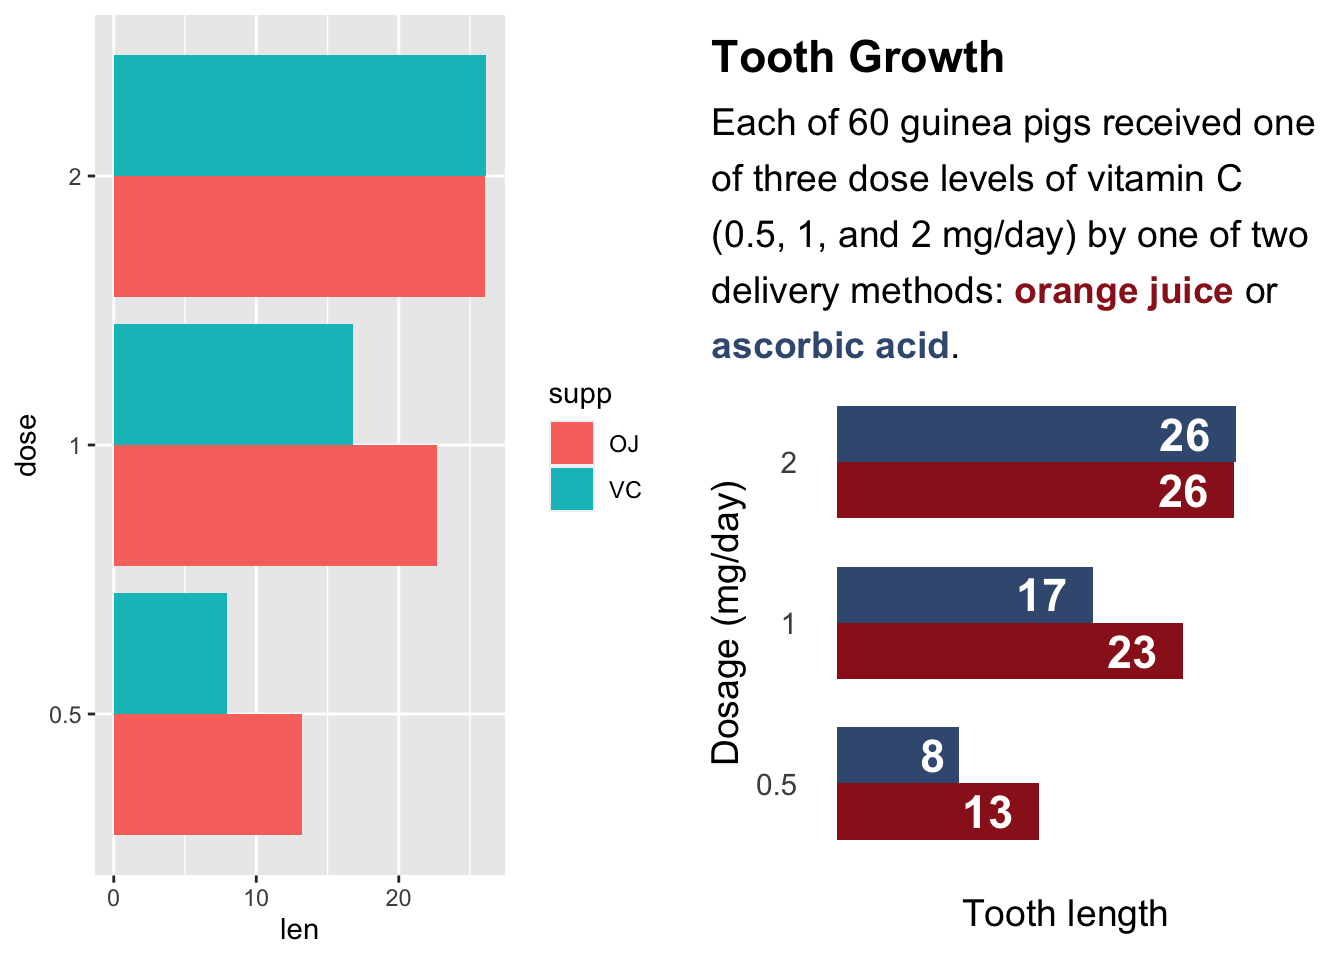
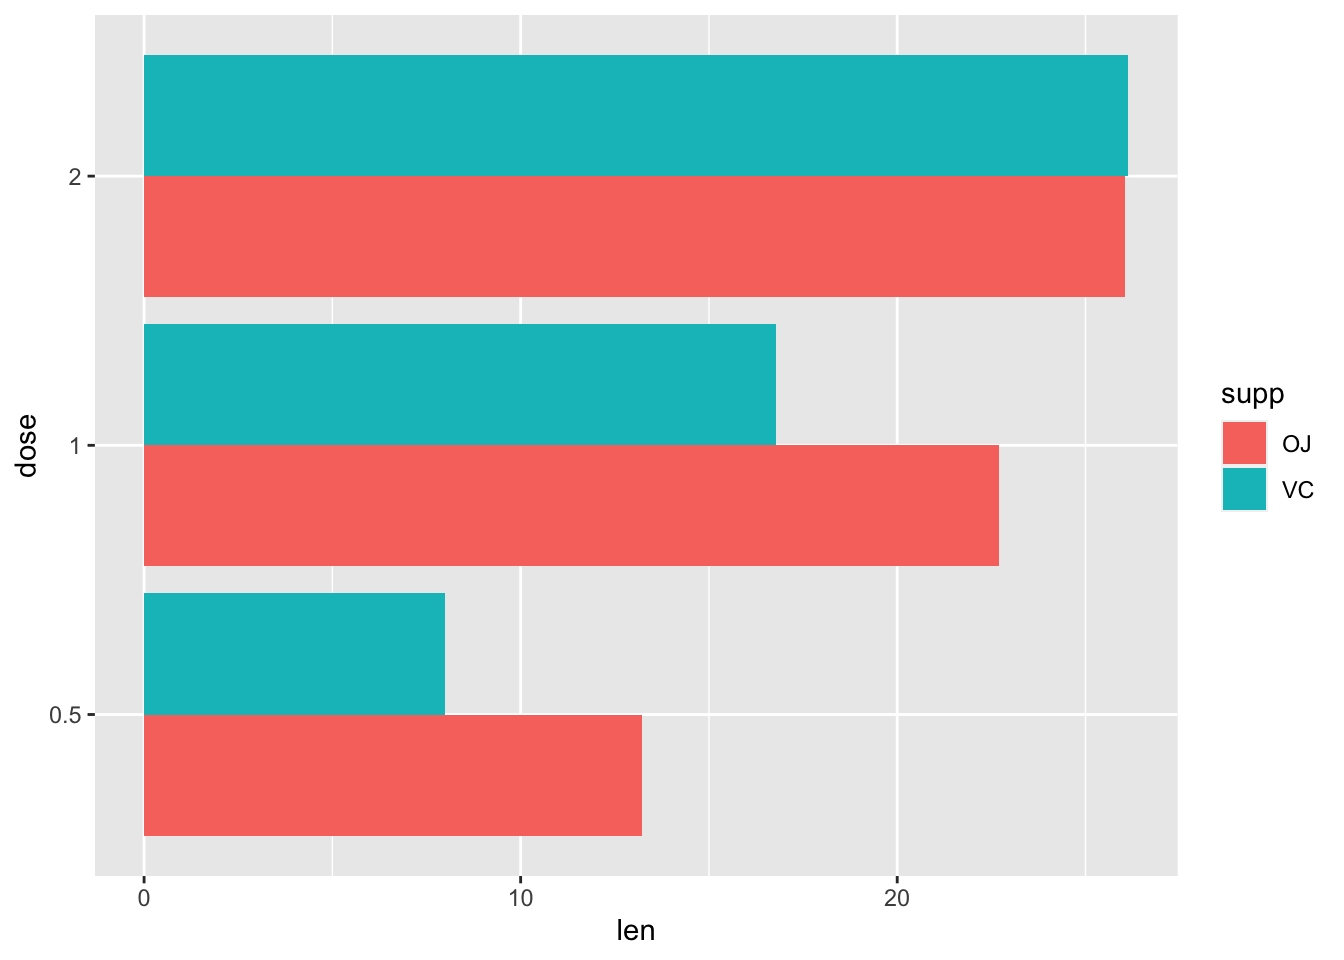
change visualization

diff --git a/docs/posts/rss-data-visualization-guide/index.html b/docs/posts/rss-data-visualization-guide/index.html
@@ -344,17 +344,20 @@ gtag('config', 'G-D7YERGZ04Y', { 'anonymize_ip': true});
 <section id="차트-스타일링의-원칙" class="level3">
 <h3 class="anchored" data-anchor-id="차트-스타일링의-원칙">차트 스타일링의 원칙</h3>
 <p>아래 두 차트는 동일한 데이터의 동일한 유형의 차트입니다. (기니피크 치아 성장 데이터를 이용한 Bar Plot)<br>
-하지만 두 차트의 인상은 확연히 다릅니다. 색상, 텍스트 주석, 글꼴 크기, 레이블과 같은 추가 정보가 오른쪽 차트를 훨씬 더 쉽게 해석할 수 있도록 만들어 줍니다. 이 섹션에서는 이러한 각 요소를 살펴보고 차트의 접근성과 해석도를 개선하기 위한 스타일 지정법을 알아보겠습니다.</p>
+하지만 두 차트의 인상은 확연히 다릅니다. 색상, 텍스트 주석, 글꼴 크기, 레이블과 같은 추가 정보가 차트를 훨씬 더 쉽게 해석할 수 있도록 만들어 줍니다. 이 섹션에서는 이러한 각 요소를 살펴보고 차트의 접근성과 해석도를 개선하기 위한 스타일 지정법을 알아보겠습니다.</p>
 <div class="cell">
 <div class="cell-output-display">
 <p><img src="index_files/figure-html/unnamed-chunk-7-1.png" class="img-fluid" width="672"></p>
+</div>
+<div class="cell-output-display">
+<p><img src="index_files/figure-html/unnamed-chunk-7-2.png" class="img-fluid" width="672"></p>
 </div>
 </div>
 </section>
 <section id="colours" class="level3">
 <h3 class="anchored" data-anchor-id="colours">Colours</h3>
 <p>색상은 데이터 시각화에 큰 영향을 미치는 요소 중 하나입니다. 올바른 색상은 전달하려는 스토리를 강조하는 데에도 도움이 됩니다.<br>
-색상을 선택하기 전에, 여기에 정말 색상을 사용해야 하는가라는 질문을 해보십시오. <a href="https://doi.org/10.3390/ijgi10040213">Beecham 등의 연구</a>에 따르면 색상이 적게 사용될 때 저욱 직관적입니다.</p>
+색상을 선택하기 전에, 여기에 정말 색상을 사용해야 하는가라는 질문을 해보십시오. <a href="https://doi.org/10.3390/ijgi10040213">Beecham 등의 연구</a>에 따르면 색상이 적게 사용될 때 더욱 직관적입니다.</p>
 <div class="cell">
 <div class="cell-output-display">
 <p><img src="index_files/figure-html/unnamed-chunk-8-1.png" class="img-fluid" width="672"></p>
@@ -408,6 +411,9 @@ gtag('config', 'G-D7YERGZ04Y', { 'anonymize_ip': true});
 <div class="cell">
 <div class="cell-output-display">
 <p><img src="index_files/figure-html/unnamed-chunk-11-1.png" class="img-fluid" width="672"></p>
+</div>
+<div class="cell-output-display">
+<p><img src="index_files/figure-html/unnamed-chunk-11-2.png" class="img-fluid" width="672"></p>
 </div>
 </div>
 </section>

diff --git a/docs/index.html b/docs/index.html
@@ -191,7 +191,7 @@ gtag('config', 'G-D7YERGZ04Y', { 'anonymize_ip': true});
     </div>
 </div>
 <div class="list grid quarto-listing-cols-3">
-<div class="g-col-1" data-index="0" data-categories="DataScience,DataVisualization,Script" data-listing-date-sort="1691247600000" data-listing-file-modified-sort="1691325995149" data-listing-date-modified-sort="1691247600000" data-listing-reading-time-sort="23">
+<div class="g-col-1" data-index="0" data-categories="DataScience,DataVisualization,Script" data-listing-date-sort="1691247600000" data-listing-file-modified-sort="1691327700716" data-listing-date-modified-sort="1691247600000" data-listing-reading-time-sort="23">
 <a href="./posts/rss-data-visualization-guide/index.html" class="quarto-grid-link">
 <div class="quarto-grid-item card h-100 card-left">
 <p class="card-img-top"><img src="posts/rss-data-visualization-guide/index_files/figure-html/unnamed-chunk-1-1.png" style="height: 150px;"  class="thumbnail-image card-img"/></p>
